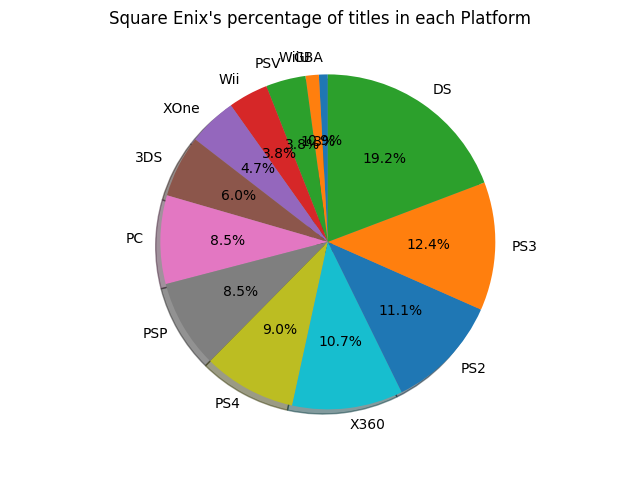
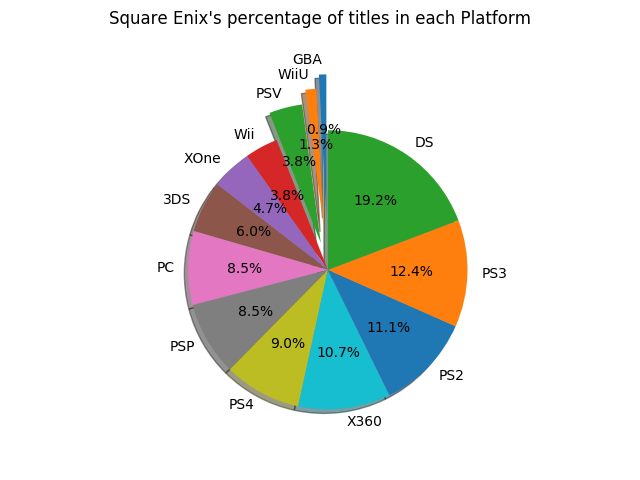
Fixed referencing included csv file and added some images

diff --git a/vg_chart_generator/vg_chart_generator/__init__.py b/vg_chart_generator/vg_chart_generator/__init__.py
@@ -1,13 +1,13 @@
 import pandas as pd
 import matplotlib.pyplot as plt
 import argparse
-
+import pkg_resources
 
 class VgChartGenerator():
 
   # the init method is the constructor for an instance
   def __init__(self):
-    self.df = pd.read_csv('vg_chart_generator/data/Video_Games_Sales_as_at_22_Dec_2016.csv')
+    self.df = pd.read_csv(pkg_resources.resource_filename('vg_chart_generator', 'Video_Games_Sales_as_at_22_Dec_2016.csv'))
   
   def columns(self):
     return self.df.columns.to_list()
@@ -25,7 +25,9 @@ class VgChartGenerator():
   # Generate the plot and write it out
   def generate_plot(self,aggregate,title,filename):
     plt.suptitle(title)
+    explode = (0.4, 0.3, 0.2) + tuple([0]*(len(aggregate.values) - 3))
     plt.pie(aggregate.values,
+            explode=explode,
             labels=aggregate.keys(),
             autopct='%1.1f%%',
             shadow=True, startangle=90)

diff --git a/vg_chart_generator/setup.py b/vg_chart_generator/setup.py
@@ -13,7 +13,7 @@ config = {
                          'matplotlib',
                          'pandas'],
     'packages': ['vg_chart_generator'],
-    # 'package_data':{ 'vg_chart_generator': ['*.csv']},
+    'package_data':{ 'vg_chart_generator': ['*.csv']},
     'include_package_data': True,
     'name': 'vg_chart_generator',
     'entry_points': {'console_scripts': ['vg-chart-generator=vg_chart_generator:main']}
